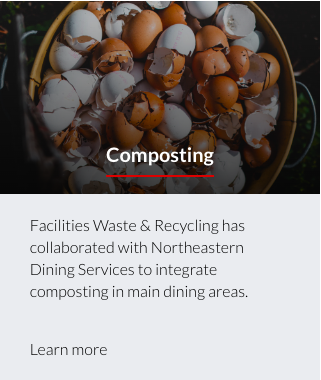
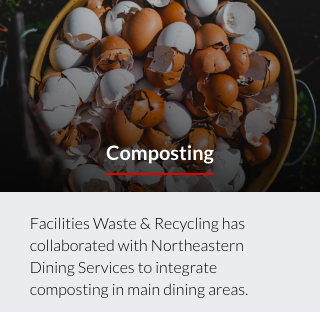
Added interactive learn more buttons for 2 images

diff --git a/css/style3.css b/css/style3.css
@@ -33,6 +33,30 @@ nav{
    padding-right: 0.5em;
 }
 
+.button1 {
+   background-color: white;
+   color: black;
+   border: 2px solid #4CAF50; /* Green */
+   text-align: center;
+   margin: 0 auto;
+}
+
+.button {
+   padding: 15px 32px;
+   text-align: center;
+   text-decoration: none;
+   display: inline-block;
+   font-size: 16px;
+   transition-duration: 0.4s;
+   margin: 0 auto;
+   transform: translateX(+100%);
+ }
+ 
+.button:hover {
+   background-color: #4CAF50; /* Green */
+   color: white;
+}
+
 
 h1{
    font-family: ff-real-headline-pro-2, sans-serif;

diff --git a/index.html b/index.html
@@ -70,9 +70,12 @@
 <div class="row">
    <div class="column">
      <img src="image/Compost.link.png" alt="Compost Link" style="width:100%">
+     <a href="https://facilities.northeastern.edu/materials-recycling/recycling/"><button class="button button1">Learn More</button></a>
    </div>
    <div class="column">
      <img src="image/Recycling.link.png" alt="Recycling Link" style="width:100%">
+     <a href="https://facilities.northeastern.edu/materials-recycling/composting/"><button class="button button1">Learn More</button></a>
+     
    </div>
 </div>
 
